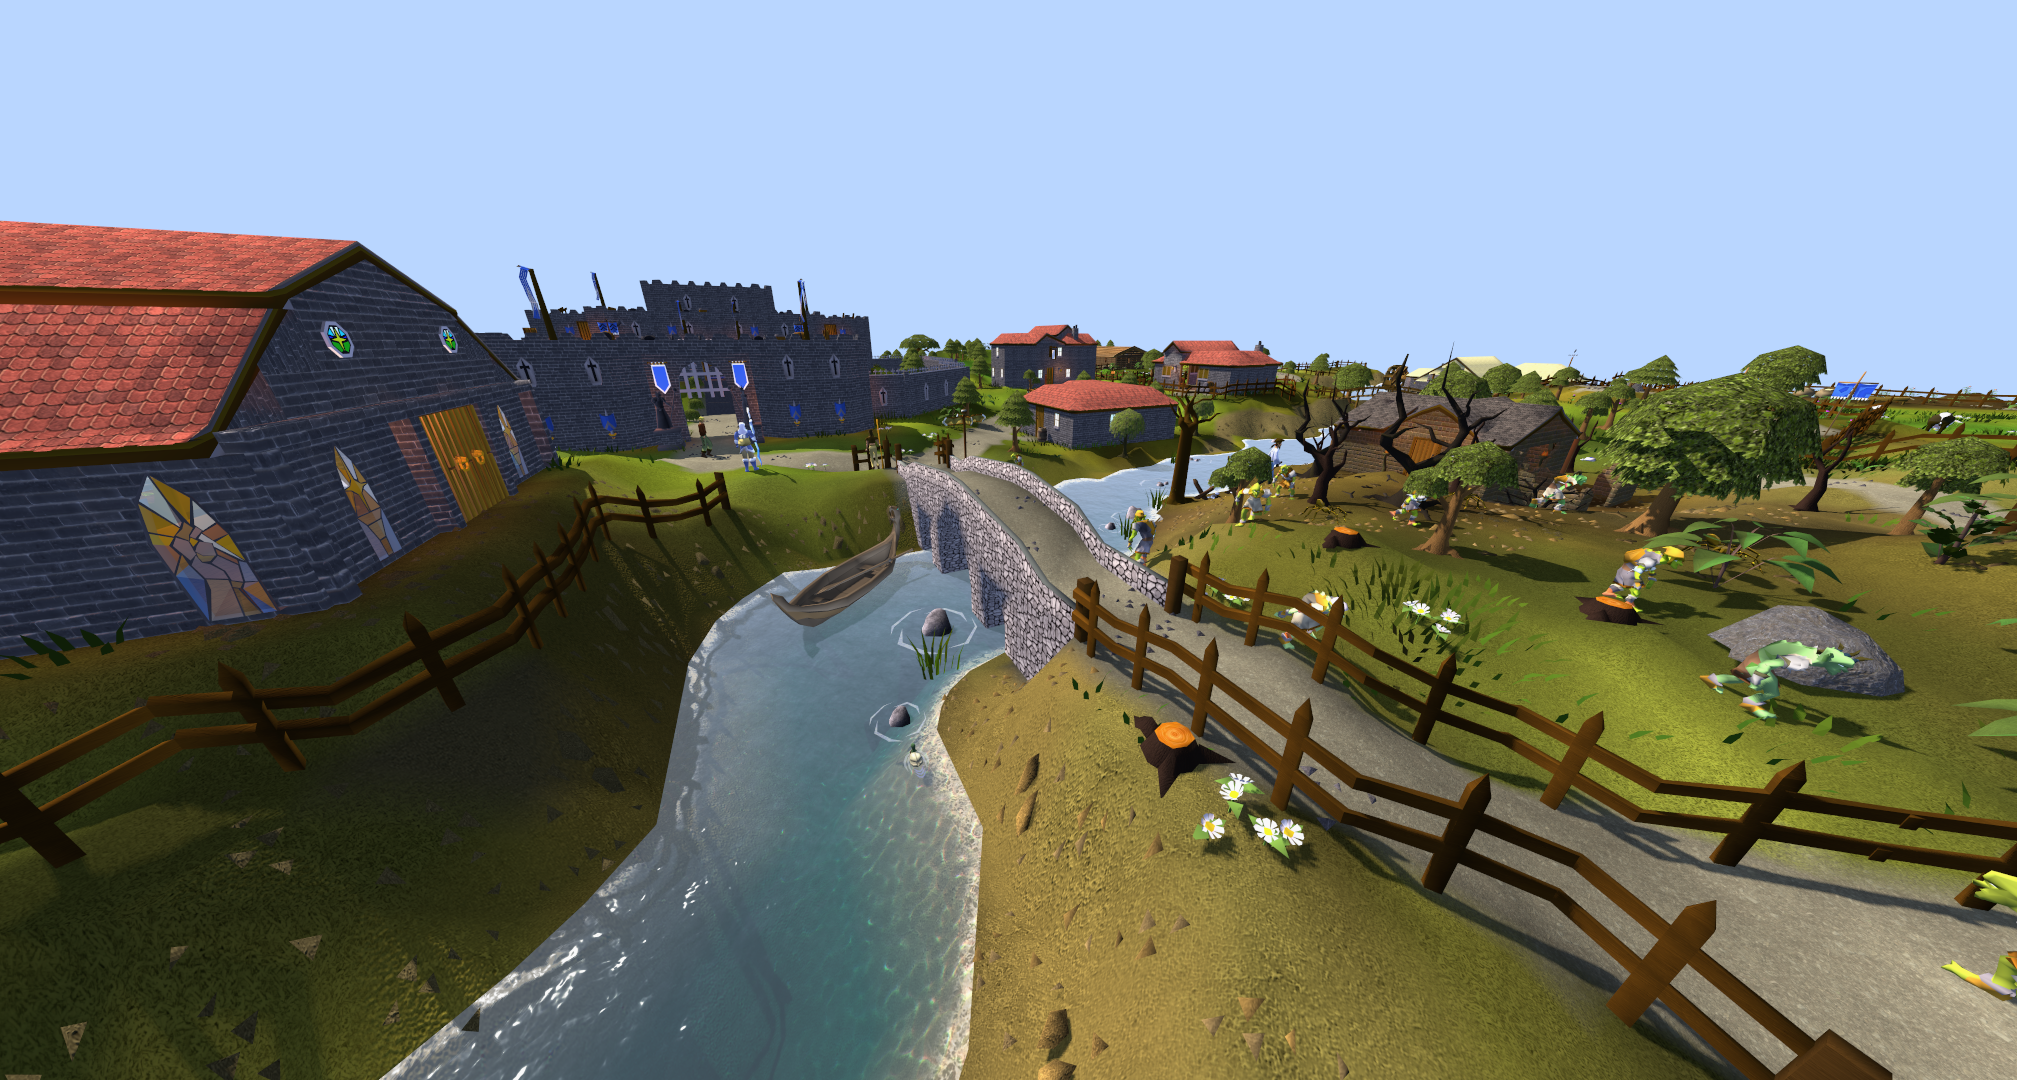
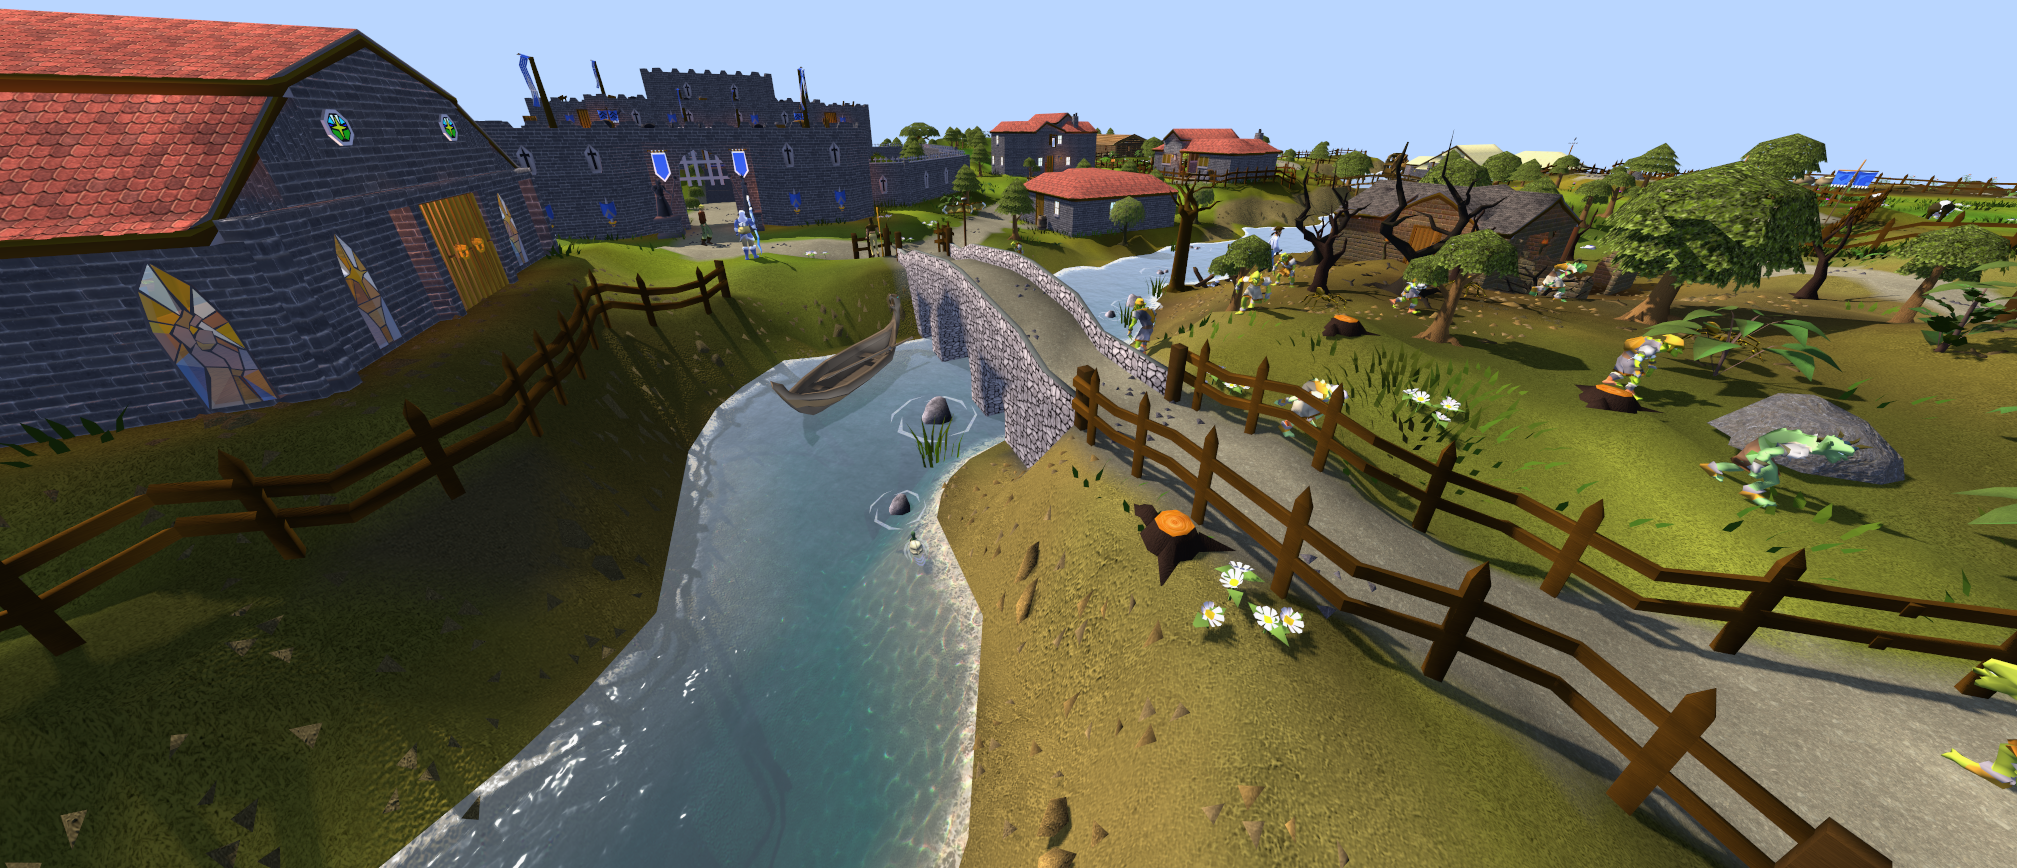
Tweaked header and footer

diff --git a/style.css b/style.css
@@ -202,12 +202,18 @@
 	#header
 	{
 		position: relative;
+		background-color: #b9d6ff;
 		background-image: url(./images/LumbridgeNear.png);
 		background-repeat: no-repeat;
-		background-position: top center;
+		background-position: center 10em;
 		background-attachment: fixed;
-		background-size: auto inherit;
+		background-size: 100% auto;
 		text-align: center;
+	}
+
+	#header:has(.small)
+	{
+		background-position-y: 5em;
 	}
 
 	#header:before
@@ -425,7 +431,7 @@
 
 	footer header .byline
 	{
-		color: rgba(255,255,255,.2);
+		color: rgba(255,255,255,.3);
 	}
 
 /*********************************************************************************/
@@ -437,4 +443,9 @@
 		text-align: center;
 		margin-top:15px;
 		margin-bottom:15px;
+		color: rgba(255,255,255,.3);
+	}
+
+	#copyright a {
+		color: #5555ff
 	}

diff --git a/guesting/index.html b/guesting/index.html
@@ -54,6 +54,12 @@
 			<p>Keep in mind our rules apply to guests as well. Read them over <a href="https://forms.gle/ZdWywgDCEmeJ5iPTA">here</a></p>
 		</article></main>
 
+		<!-- Quote -->
+		<div id="quote"><section class="container">
+			<blockquote>“Fennec foxes are so cute” - 410 / 30 99 30</blockquote>
+			<!-- <blockquote>“let me join gay f2p im clan” - danspotato</blockquote> -->
+		</section></div>
+
 		<!-- Copyright -->
 		<div id="copyright">
 			<p>Template: <a href="https://web.archive.org/web/20240717111659/https://templated.co/linear/no-sidebar.html">Linear by TEMPLATED</a></p>
